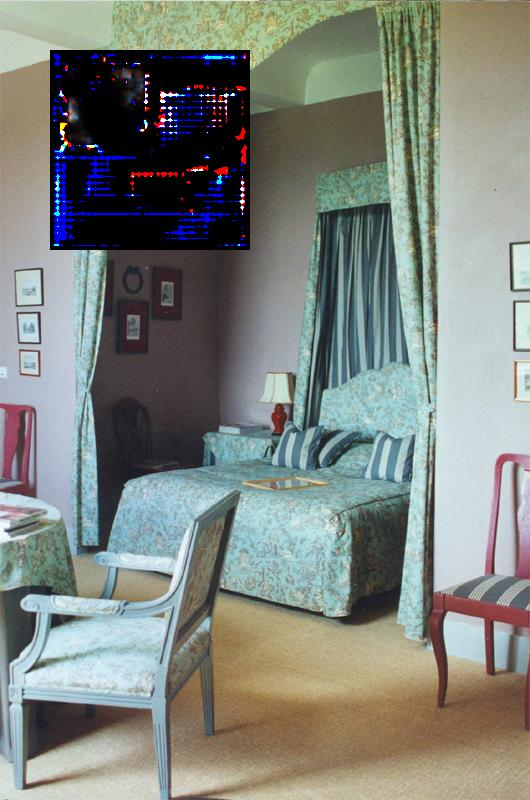
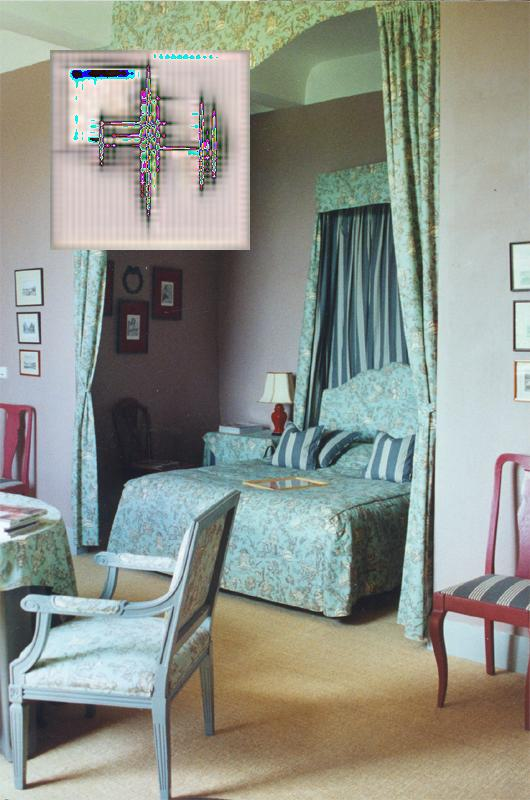
finished training

Changed region(s): [[0.0906, 0.0625, 0.483, 0.3125]]

diff --git a/diffusion/dataset.py b/diffusion/dataset.py
@@ -10,11 +10,12 @@ import json
 
 
 class ListDataset(Dataset):
-    def __init__(self, images, masks, labels, targets, device):
+    def __init__(self, images, masks, labels, targets, time, device):
         self.images = images
         self.masks = masks
         self.labels = labels
         self.targets = targets
+        self.time = time
         self.device = device
 
     def shuffle(self):
@@ -24,6 +25,7 @@ class ListDataset(Dataset):
         self.masks = [self.masks[i].to(self.device) for i in indices]
         self.labels = [self.labels[i].to(self.device) for i in indices]
         self.targets = [self.targets[i].to(self.device) for i in indices]
+        self.time = [self.time[i].to(self.device) for i in indices]
 
     def __len__(self):
         return len(self.targets)
@@ -32,12 +34,15 @@ class ListDataset(Dataset):
         i = self.images[index].to(self.device)
         m = self.masks[index].to(self.device)
         l = self.labels[index].to(self.device)
-        t = self.targets[index].to(self.device)
+        y = self.targets[index].to(self.device)
+        t = self.time[index].to(self.device)
 
-        return i, m, l, t
+        return i, m, l, y, t
 
-@jit
-def gather_links(path=os.path.join("D:", "PA_Data", "segmented", "ade20k", "training", "shopping_and_dining")):
+
+# @jit
+def gather_links(folder="shopping_and_dining"):
+    path = os.path.join("D:", "PA_Data", "segmented", "ade20k", "training", folder)
     links = []
     dirs = os.listdir(path)
 
@@ -52,7 +57,8 @@ def gather_links(path=os.path.join("D:", "PA_Data", "segmented", "ade20k", "trai
 
     return links
 
-@jit
+
+# @jit
 def crop_largest_square_around_point(width, height, box, IMG_SIZE):
     box_side = abs(box[0] - box[2])
     point = (box[0] + box_side // 2, box[1] + box_side // 2)
@@ -79,8 +85,8 @@ def crop_largest_square_around_point(width, height, box, IMG_SIZE):
     return (left, top, right, bottom), (nleft, ntop, nright, nbottom)
 
 
-@jit
-def prepare_training_sample(img, steps, labels, x_lis, y_lis, mask_lis, label_lis, x1, y1, x2, y2):
+# @jit
+def prepare_training_sample(img, steps, labels, normalize, x_lis, y_lis, mask_lis, label_lis, time_lis, x1, y1, x2, y2):
     '''
     Takes one image, and produces steps amount of training samples
     '''
@@ -96,17 +102,24 @@ def prepare_training_sample(img, steps, labels, x_lis, y_lis, mask_lis, label_li
         clone_x[y1:y2, x1:x2, :] = inter[i + 1, y1:y2, x1:x2, :]
         clone_y[y1:y2, x1:x2, :] = inter[i, y1:y2, x1:x2, :]
 
-        x_lis.append(torch.from_numpy(clone_x).float())
-        y_lis.append(torch.from_numpy(clone_y).float())
+        x_lis.append(normalize(torch.from_numpy(clone_x).float()))
+        y_lis.append(normalize(torch.from_numpy(clone_y).float()))
         mask_lis.append(torch.from_numpy(mask[:, :, 0:1]).float())
         label_lis.append(torch.from_numpy(labels).float())
+        time_lis.append(torch.tensor([i]).float())
+
+    # from utils import show_img
+    # show_img(x_lis[0], permute=False)
+    # show_img(x_lis[1], permute=False)
+    # show_img(x_lis[2], permute=False)
 
 
-@jit
+# @jit
 def one_hot_labels(label_list, selected):
     return np.array([1 if selected == elt else 0 for elt in label_list])
 
-@jit
+
+# @jit
 def load_images_and_labels(links, labels, resolution):
     # ls = [(os.path.join('assets', 'adesample', 'a.jpg'), os.path.join('assets', 'adesample', 'a.json'))]
     resize = transforms.Resize((resolution, resolution))

diff --git a/diffusion/train.py b/diffusion/train.py
@@ -5,6 +5,7 @@ import torch.nn.functional as F
 from diffusion.model.unet import Unet
 from dataset import ListDataset, gather_links, one_hot_labels, prepare_training_sample, load_images_and_labels
 from torchvision import transforms
+from torch.utils.tensorboard import SummaryWriter
 
 import torch
 import torch.nn as nn
@@ -22,47 +23,54 @@ x_labels = ['chair', 'bookshelf', 'dresser', 'sofa', 'table']
 
 LABEL_SHAPE = len(x_labels)
 links = gather_links()
+links += gather_links(folder="home_or_hotel")[:500]
 
 print("Extracting images")
 # images, box_coords, labels = test_load_images_and_labels([], x_labels, res)
 images, box_coords, labels = load_images_and_labels(links, x_labels, res)
 tensor = transforms.ToTensor()
-normalize = transforms.Lambda(lambda t: ((t / 255) * 2) - 1)
-# normalize = transforms.Lambda(lambda t: t / 255)
+# normalize = transforms.Lambda(lambda t: ((t / 255) * 2) - 1)
+normalize = transforms.Lambda(lambda t: t / 255)
 
 print("Preparing samples")
-x_list, y_list, mask_list, label_list = [], [], [], []
+x_list, y_list, mask_list, label_list, time_list = [], [], [], [], []
 for sample in tqdm(zip(images, box_coords, labels)):
     image, box, labels = sample
     label = one_hot_labels(labels, np.random.choice(labels))
-    prepare_training_sample(normalize(image), T, label, x_list, y_list, mask_list, label_list, *box)
+    prepare_training_sample(image, T, label, normalize, x_list, y_list, mask_list, label_list, time_list, *box)
 
 learning_rate = 0.001
-batch_size = 16
-num_epochs = 10
+batch_size = 32
+num_epochs = 100
 
 print("Creating dataset")
-dataset = ListDataset(x_list, mask_list, label_list, y_list, device)
+dataset = ListDataset(x_list, mask_list, label_list, y_list, time_list, device)
 dataset.shuffle()
 dataloader = DataLoader(dataset, batch_size=batch_size)
 model = Unet(LABEL_SHAPE, res).to(device)
 
 optimizer = optim.Adam(model.parameters(), lr=learning_rate)
-# criterion = nn.CrossEntropyLoss()
+writer = SummaryWriter()
 
 print("Starting training")
 for epoch in range(num_epochs):
-    for i, (x, m, l, target) in enumerate(dataloader):
-        outputs = model(x, m, l)
-        # loss = criterion(outputs, target.permute(0, 3, 1, 2))
+    for i, (x, m, l, target, time) in enumerate(dataloader):
+        outputs = model(x, m, l, time)
         loss = F.l1_loss(outputs, target.permute(0, 3, 1, 2))
 
         optimizer.zero_grad()
         loss.backward()
         optimizer.step()
 
+        writer.add_scalar('Loss', loss.item(), epoch)
+
         if i % 5 == 0:
             print(f"Epoch [{epoch + 1}/{num_epochs}], Step [{i + 1}/{len(dataloader)}], Loss: {loss.item():.4f}")
 
+writer.close()
 model = model.to("cpu")
-torch.save(model.state_dict(), os.path.join('model', 'model2.pkl'))
+name = writer.get_logdir()
+name = name.replace('runs\\', '')
+name = name.rsplit('_', 1)[0]
+
+torch.save(model.state_dict(), os.path.join('model', name + '.pkl'))

diff --git a/diffusion/lambda_retrain.py b/diffusion/lambda_retrain.py
@@ -32,13 +32,14 @@ class Unet(nn.Module):
 
     def __init__(self, labels_len, in_len):
         super().__init__()
-        image_channels = 5  # RBG, mask, labels
+        image_channels = 6  # RBG, mask, labels, time
         down_channels = (32, 64, 128, 256, 512)
         up_channels = (512, 256, 128, 64, 32)
         out_dim = 3
         self.in_len = in_len
 
         self.linear = nn.Linear(labels_len, in_len ** 2)
+        self.time = nn.Linear(1, in_len ** 2)
 
         self.conv0 = nn.Conv2d(image_channels, down_channels[0], 3, padding=1)
 
@@ -50,14 +51,14 @@ class Unet(nn.Module):
 
         self.output = nn.Conv2d(up_channels[-1], out_dim, 1)
 
-    def forward(self, x, mask, labels):
+    def forward(self, x, mask, labels, time):
         labels = self.linear(labels).view(x.shape[0], self.in_len, self.in_len, 1)
-        x = torch.cat((x, mask, labels), dim=3)
+        time = self.time(time).view(x.shape[0], self.in_len, self.in_len, 1)
+        x = torch.cat((x, mask, labels, time), dim=3)
         x = x.permute(0, 3, 1, 2)
         x = self.conv0(x)
         # Unet
         residual_inputs = []
-        # with torch.no_grad:
         for down in self.downs:
             x = down(x)
             residual_inputs.append(x)
@@ -67,7 +68,6 @@ class Unet(nn.Module):
             x = torch.cat((x, residual_x), dim=1)
             x = up(x)
         return self.output(x)
-
 
 def prepare_training_sample(img, labels_list, steps, x1, y1, x2, y2):
     step = random.randint(0, steps - 1)
@@ -84,7 +84,8 @@ def prepare_training_sample(img, labels_list, steps, x1, y1, x2, y2):
     return torch.from_numpy(clone_x).float().unsqueeze(0), \
         torch.from_numpy(clone_y).float().unsqueeze(0), \
         torch.from_numpy(mask[:, :, 0:1]).float().unsqueeze(0), \
-        torch.from_numpy(np.array(labels_list)).float()
+        torch.from_numpy(np.array(labels_list)).float(), \
+        torch.tensor([step]).float()
 
 
 def crop_largest_square_around_point(width, height, box, IMG_SIZE):
@@ -149,8 +150,9 @@ x = torch.cat([s[0] for s in samples])
 y = torch.cat([s[1] for s in samples])
 m = torch.cat([s[2] for s in samples])
 l = torch.stack([s[3] for s in samples])
+t = torch.stack([s[4] for s in samples])
 
-outputs = model(x, m, l)
+outputs = model(x, m, l, t)
 loss = criterion(outputs, y.permute(0, 3, 1, 2))
 
 optimizer.zero_grad()

diff --git a/diffusion/lambda_inference.py b/diffusion/lambda_inference.py
@@ -32,13 +32,14 @@ class Unet(nn.Module):
 
     def __init__(self, labels_len, in_len):
         super().__init__()
-        image_channels = 5  # RBG, mask, labels
+        image_channels = 6  # RBG, mask, labels, time
         down_channels = (32, 64, 128, 256, 512)
         up_channels = (512, 256, 128, 64, 32)
         out_dim = 3
         self.in_len = in_len
 
         self.linear = nn.Linear(labels_len, in_len ** 2)
+        self.time = nn.Linear(1, in_len ** 2)
 
         self.conv0 = nn.Conv2d(image_channels, down_channels[0], 3, padding=1)
 
@@ -50,9 +51,10 @@ class Unet(nn.Module):
 
         self.output = nn.Conv2d(up_channels[-1], out_dim, 1)
 
-    def forward(self, x, mask, labels):
+    def forward(self, x, mask, labels, time):
         labels = self.linear(labels).view(self.in_len, self.in_len, 1).unsqueeze(0)
-        x = torch.cat((x, mask, labels), dim=3)
+        time = self.time(time).view(x.shape[0], self.in_len, self.in_len, 1)
+        x = torch.cat((x, mask, labels, time), dim=3)
         x = x.permute(0, 3, 1, 2)
         x = self.conv0(x)
         # Unet
@@ -138,17 +140,18 @@ model = Unet(len(labels), resolution)
 model.load_state_dict(torch.load(MODEL_PATH))
 
 for i in range(steps, -1, -1):
-    x = model(x, m, l).permute(0, 3, 2, 1)
+    time = torch.tensor([i]).float()
+    x = model(x, m, l, time).permute(0, 3, 2, 1)
 
 x = x.permute(0, 3, 2, 1)
 
 size = abs(box[0] - box[2])
 denormalize = transforms.Lambda(lambda t: ((t + 1) / 2) * 255)
-upscale = nn.functional.interpolate(x, size=size, mode="bilinear").squeeze().clone().detach().numpy()
-
+upscale = nn.functional.interpolate(denormalize(x), size=size, mode="bilinear").squeeze().clone().detach().numpy()
 
 output = np.array(image)
 output[box[1]:box[3], box[0]:box[2], :] = np.transpose(upscale, (1, 2, 0))
+
 
 image = Image.fromarray(output)
 image.save(IMAGE_OUTPUT)

diff --git a/diffusion/model/unet.py b/diffusion/model/unet.py
@@ -27,14 +27,14 @@ class Unet(nn.Module):
 
     def __init__(self, labels_len, in_len):
         super().__init__()
-        image_channels = 5  # RBG, mask, labels
+        image_channels = 6  # RBG, mask, labels, time
         down_channels = (32, 64, 128, 256, 512)
         up_channels = (512, 256, 128, 64, 32)
         out_dim = 3
         self.in_len = in_len
 
-
         self.linear = nn.Linear(labels_len, in_len ** 2)
+        self.time = nn.Linear(1, in_len ** 2)
 
         self.conv0 = nn.Conv2d(image_channels, down_channels[0], 3, padding=1)
 
@@ -46,9 +46,10 @@ class Unet(nn.Module):
 
         self.output = nn.Conv2d(up_channels[-1], out_dim, 1)
 
-    def forward(self, x, mask, labels):
+    def forward(self, x, mask, labels, time):
         labels = self.linear(labels).view(x.shape[0], self.in_len, self.in_len, 1)
-        x = torch.cat((x, mask, labels), dim=3)
+        time = self.time(time).view(x.shape[0], self.in_len, self.in_len, 1)
+        x = torch.cat((x, mask, labels, time), dim=3)
         x = x.permute(0, 3, 1, 2)
         x = self.conv0(x)
         # Unet

diff --git a/diffusion/utils.py b/diffusion/utils.py
@@ -3,6 +3,7 @@ import numpy as np
 
 
 def show_img(tensor, istensor=True, permute=True):
+    a = tensor
     if istensor:
         tensor = tensor.squeeze(0)
         if permute:
